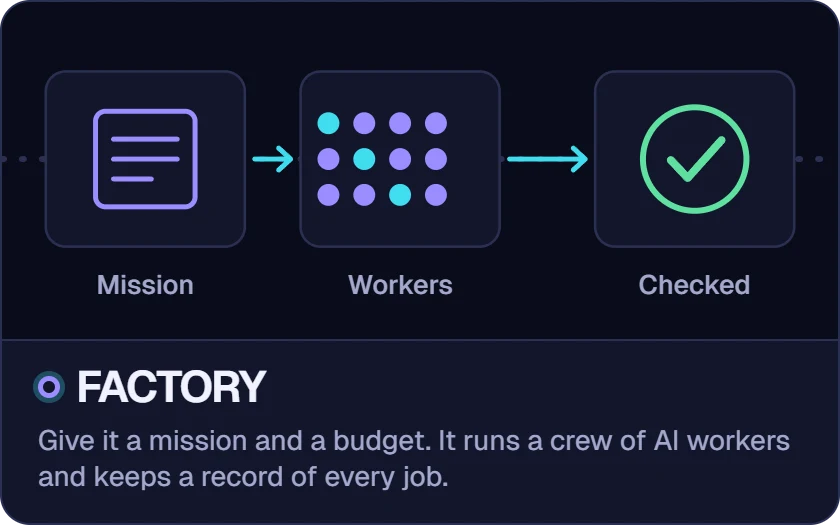
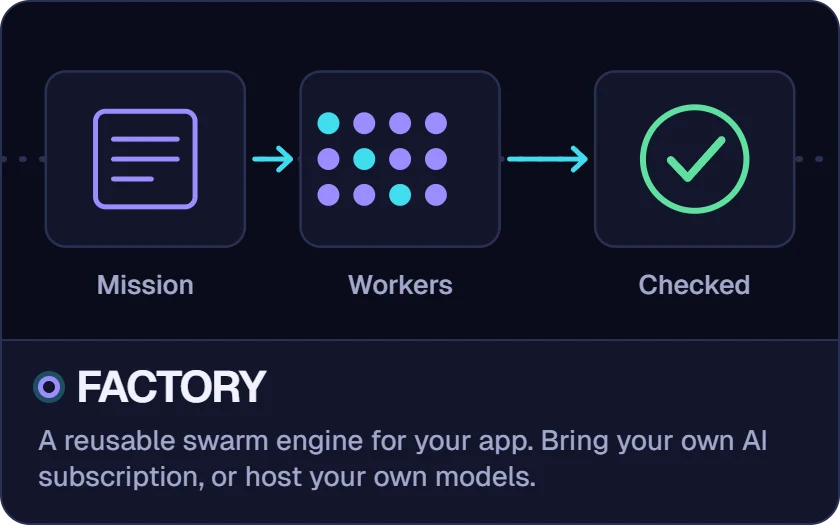
Match the FACTORY card to its new front page

Changed region(s): [[0.031, 0.8229, 0.9595, 0.9448]]

diff --git a/README.md b/README.md
@@ -7,7 +7,7 @@
 <picture><source media="(prefers-color-scheme: dark)" srcset="assets/tiles/s-platform-dark.webp"><img src="assets/tiles/s-platform-light.webp" alt="The platform. FLUJO, and everything that grew out of it." width="100%"></picture>
 
 <table>
-<tr><td width="50%" rowspan="2" valign="top"><a href="https://github.com/mario-andreschak/FLUJO"><picture><source media="(prefers-color-scheme: dark)" srcset="assets/tiles/flujo-dark.webp"><img src="assets/tiles/flujo-light.webp" alt="FLUJO: Build private AI agents visually. Then talk to them, automate them, or call them from other software." width="100%"></picture></a></td><td width="50%" valign="top"><a href="https://github.com/flujo-app/FACTORY"><picture><source media="(prefers-color-scheme: dark)" srcset="assets/tiles/factory-dark.webp"><img src="assets/tiles/factory-light.webp" alt="FACTORY: Give it a mission and a budget. It runs a crew of AI workers and keeps a record of every job." width="100%"></picture></a></td></tr>
+<tr><td width="50%" rowspan="2" valign="top"><a href="https://github.com/mario-andreschak/FLUJO"><picture><source media="(prefers-color-scheme: dark)" srcset="assets/tiles/flujo-dark.webp"><img src="assets/tiles/flujo-light.webp" alt="FLUJO: Build private AI agents visually. Then talk to them, automate them, or call them from other software." width="100%"></picture></a></td><td width="50%" valign="top"><a href="https://github.com/flujo-app/FACTORY"><picture><source media="(prefers-color-scheme: dark)" srcset="assets/tiles/factory-dark.webp"><img src="assets/tiles/factory-light.webp" alt="FACTORY: A reusable swarm engine for your app. Bring your own AI subscription, or host your own models." width="100%"></picture></a></td></tr>
 <tr><td valign="top"><a href="https://github.com/flujo-app/flujo-cloud"><picture><source media="(prefers-color-scheme: dark)" srcset="assets/tiles/flujo-cloud-dark.webp"><img src="assets/tiles/flujo-cloud-light.webp" alt="flujo-cloud: Take a FLUJO flow from your PC and run it on your own private cloud machine." width="100%"></picture></a></td></tr>
 <tr><td width="50%" valign="top"><a href="https://github.com/flujo-app/seagulled"><picture><source media="(prefers-color-scheme: dark)" srcset="assets/tiles/seagulled-dark.webp"><img src="assets/tiles/seagulled-light.webp" alt="seagulled: Tell Todd your goal. He hands it to teams of AI workers and checks what they bring back." width="100%"></picture></a></td><td width="50%" rowspan="2" valign="top"><a href="https://github.com/flujo-app/brain"><picture><source media="(prefers-color-scheme: dark)" srcset="assets/tiles/brain-dark.webp"><img src="assets/tiles/brain-light.webp" alt="brain: Your agents as a living 3D brain. Watch every thought fire in real time." width="100%"></picture></a></td></tr>
 <tr><td valign="top"><a href="https://github.com/flujo-app/CommunityAI"><picture><source media="(prefers-color-scheme: dark)" srcset="assets/tiles/communityai-dark.webp"><img src="assets/tiles/communityai-light.webp" alt="CommunityAI: AI powered by people. Everyone lends a bit of their PC to run one shared model. Built on Petals." width="100%"></picture></a></td></tr>
